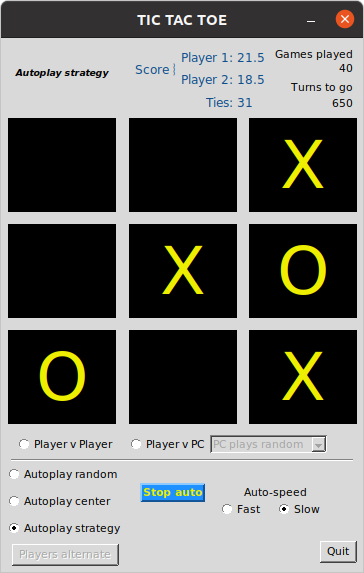
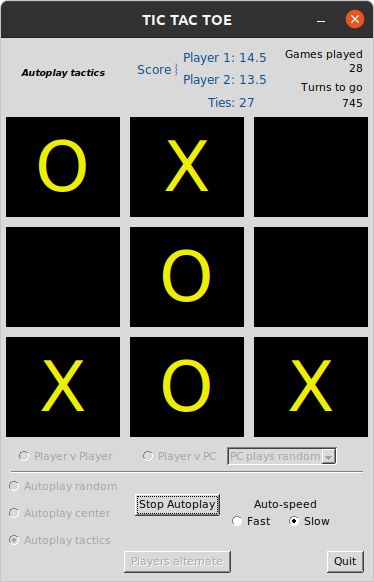
Ver 0.2.35: update README.md

diff --git a/README.md b/README.md
@@ -29,14 +29,14 @@ There are five play modes:
 - Player vs PC (computer)
 - Autoplay, random: Computer plays itself randomly; about 15% end in ties.
 - Autoplay, center: Prefers the center, then plays for win, then block, then random; ~60% tie games.
-- Autoplay, strategy: A game of defensive and offensive moves, with minimal use of random play. The priority of PC play is win, block, defend against opponent advantage, play a corner for advantage, play random; ~98% tie games.
+- Autoplay, tactics: A game of defensive and offensive moves, with minimal use of random play. The priority of PC play is win, block, defend against opponent advantage, play a corner for advantage, play random; ~98% tie games.
 
 In Player v PC game mode, the human Player can choose among options for the PC to play, as described above for the corresponding autoplay modes.
 - PC plays random; easiest to beat
 - PC plays center
-- PC plays strategy; hardest to beat
+- PC plays tactics; hardest to beat
 
-Wins, ties, and mode-specific PC moves are recorded in the Terminal window when "center" or "strategy" PC modes are selected. This output may help the human improve their game. Good luck!
+Wins, ties, and mode-specific PC moves are recorded in the Terminal window when "center" or "tactics" PC modes are selected. This output may help the human improve their game. Good luck!
 
 In Autoplay mode, the PC plays itself. You can choose to have Player 1 (X) start every game or have the PC Players 1 & 2 alternate game starts. 1000 turns are played. Fast mode is at a rate of about 10 turns per second, slow is one turn per second. Scores are updated in realtime through the turn series, giving about 110 to 130 games. Studying autoplay results in different play modes can be instructive for improving your game strategies!
 
@@ -46,7 +46,7 @@ Human (Player 1, X) wins 9th game in "PC plays center" mode. A Game Status pop-u
 
 ![pvpc-game](images/X_wins_PvPC.png)
 
-Autoplay game in progress with strategy mode, with PC players alternating start turns, 650 turns remaining, autoplay speed set to Slow, the default:
+Autoplay game in progress with tactics mode, with PC players alternating start turns, 745 turns remaining, autoplay speed set to Slow, the default:
 
 ![autoplay-game](images/autoplay.png)
 
